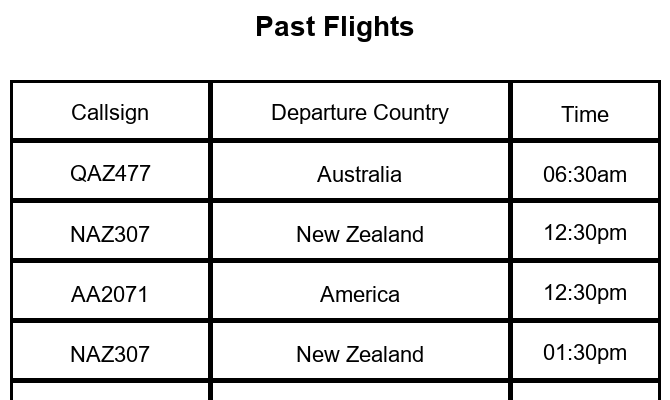
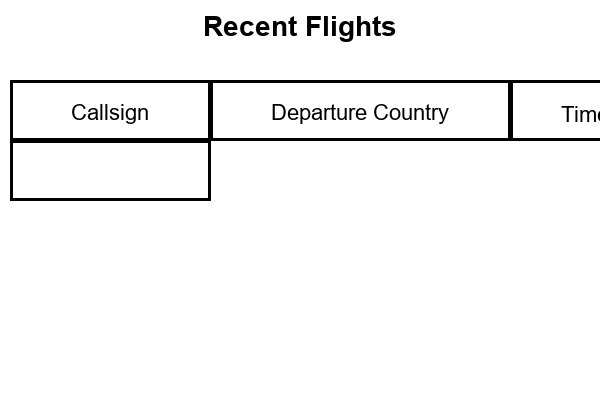
updating History Image

diff --git a/src/Services/history.py b/src/Services/history.py
@@ -1,14 +1,17 @@
 from PIL import Image, ImageDraw, ImageFont
 
-def generateHistory():
+def generateHistory(flights):
     # Example data (from API)
-    flights = [
-        {"Callsign": "QAZ477", "Departure Country": "Australia", "Time": "06:30am"},
-        {"Callsign": "NAZ307", "Departure Country": "New Zealand", "Time": "12:30pm"},
-        {"Callsign": "AA2071", "Departure Country": "America", "Time": "12:30pm"},
-        {"Callsign": "NAZ307", "Departure Country": "New Zealand", "Time": "01:30pm"},
-        {"Callsign": "NAZ307", "Departure Country": "New Zealand", "Time": "09:30pm"},
-    ]
+    # flights = [
+    #     {"Callsign": "QAZ477", "Departure Country": "Australia", "Time": "06:30am"},
+    #     {"Callsign": "NAZ307", "Departure Country": "New Zealand", "Time": "12:30pm"},
+    #     {"Callsign": "AA2071", "Departure Country": "America", "Time": "12:30pm"},
+    #     {"Callsign": "NAZ307", "Departure Country": "New Zealand", "Time": "01:30pm"},
+    #     {"Callsign": "NAZ307", "Departure Country": "New Zealand", "Time": "09:30pm"},
+    # ]
+
+    #flight details for testing list, calsign, lat, lon, pixX, pixY, Origin, Time (Unix)
+    # flights = [["VOC290", -27.44, 153.0, 0, 0, "", 0],
 
     # Image settings
     cell_widths = [200, 300, 150]  # Widths for each column
@@ -17,8 +20,8 @@ def generateHistory():
     padding = 10
 
     # Calculate image size
-    img_width = sum(cell_widths) + 20
-    img_height = header_height + len(flights) * row_height + 20
+    img_width = 600
+    img_height = 400
 
     # Create blank white image
     img = Image.new("RGB", (img_width, img_height), "white")
@@ -38,9 +41,14 @@ def generateHistory():
         return bbox[2] - bbox[0], bbox[3] - bbox[1]
 
     # Draw title
-    title = "Past Flights"
+    title = "Recent Flights"
     title_w, title_h = get_text_size(title, header_font)
     draw.text(((img_width - title_w) / 2, 10), title, font=header_font, fill="black")
+
+    #Draw table
+    y = header_height + row_height
+    x = 10
+    draw.rectangle([x, y, x + cell_widths[0], y + row_height], outline="black", width=3)
 
     # Table headers
     headers = ["Callsign", "Departure Country", "Time"]
@@ -55,17 +63,17 @@ def generateHistory():
         x += cell_widths[i]
 
     # Table rows
-    y = header_height + row_height
-    for flight in flights:
-        x = 10
-        for i, key in enumerate(headers):
-            draw.rectangle([x, y, x + cell_widths[i], y + row_height], outline="black", width=3)
-            value = flight[key]
-            text_w, text_h = get_text_size(value, cell_font)
-            draw.text((x + (cell_widths[i] - text_w) / 2, y + (row_height - text_h) / 2),
-                    value, font=cell_font, fill="black")
-            x += cell_widths[i]
-        y += row_height
+    # y = header_height + row_height
+    # for flight in flights:
+    #     x = 10
+    #     for i, key in enumerate(headers):
+    #         draw.rectangle([x, y, x + cell_widths[i], y + row_height], outline="black", width=3)
+    #         value = flight[0]
+    #         text_w, text_h = get_text_size(value, cell_font)
+    #         draw.text((x + (cell_widths[i] - text_w) / 2, y + (row_height - text_h) / 2),
+    #                 value, font=cell_font, fill="black")
+    #         x += cell_widths[i]
+    #     y += row_height
 
     # Save image
     img.save("flights_table.png")

diff --git a/src/main.py b/src/main.py
@@ -29,22 +29,19 @@ def main():
     username = ""
     password = ""
 
-    data = get_states(params=params, username=username, password=password)
+    # data = get_states(params=params, username=username, password=password)
 
-    if data:
-        print("Successful Get")
-        print("API Response (JSON):")
-        print(data)
-        #callsigns = [state[1].strip() for state in data['states'] if state[1].strip() != "NoCallsign"]
-        flights = [
-            [state[1].strip(), state[6], state[5], 0, 0]
-            for state in data['states']
-            if state[1].strip() != "NoCallsign" and state[6] != "NoLat" and state[5] != "NoLon"
-        ]
-        print(flights)
-
-    
-    # generateHistory()
+    # if data:
+    #     print("Successful Get")
+    #     print("API Response (JSON):")
+    #     print(data)
+    #     #callsigns = [state[1].strip() for state in data['states'] if state[1].strip() != "NoCallsign"]
+    #     flights = [
+    #         [state[1].strip(), state[6], state[5], 0, 0, state[2].strip(), state[3]]
+    #         for state in data['states']
+    #         if state[1].strip() != "NoCallsign" and state[6] != "NoLat" and state[5] != "NoLon"
+    #     ]
+    #     print(flights)
 
     #get flight lon and lat
     # lat = [state[6] for state in data['states'] if state[6] != "NoLat"]
@@ -55,17 +52,19 @@ def main():
     # lat = -27.5
     # lon = 153
 
-    #flight details for testing list, calsign, lat, lon, pixX, pixY
-    # flights = [["VOC290", -27.44, 153.0, 0, 0],
-    #            ["QAZ290", -27.5, 153.15, 0, 0]]
+    #flight details for testing list, calsign, lat, lon, pixX, pixY, Origin, Time (Unix)
+    flights = [["VOC290", -27.44, 153.0, 0, 0, "", 0],
+               ["QAZ290", -27.5, 153.15, 0, 0]]
     
     
-    for plane in flights:
+    #for plane in flights:
         #convert lon/lat to pixelcoords
-        plane[3], plane[4] = plotCoords(lat = plane[1], lon = plane[2])
+        #plane[3], plane[4] = plotCoords(lat = plane[1], lon = plane[2])
 
 
-    generateMap(flights)
+    #generateMap(flights)
+
+    generateHistory(flights)
 
 if __name__ == "__main__":
     main()
